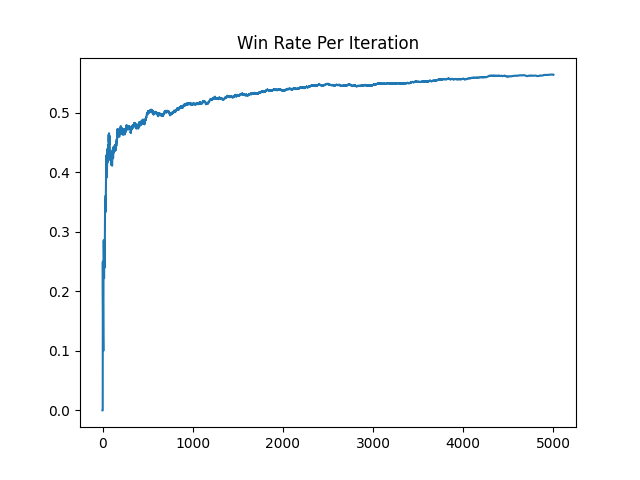
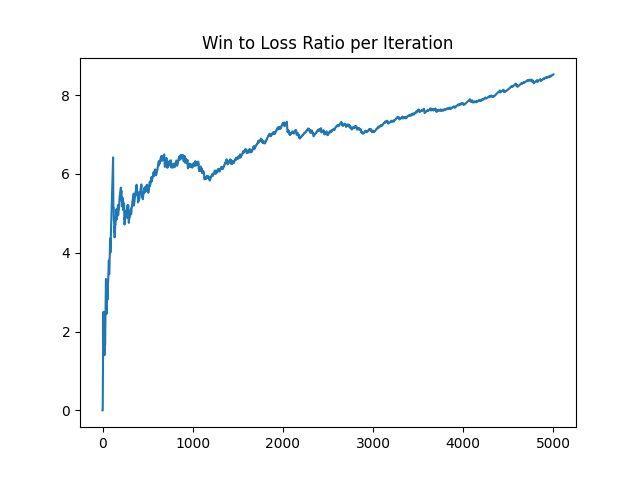
appearance changes

diff --git a/game.py b/game.py
@@ -220,10 +220,9 @@ class Model():
 
         return xtrain, np.array(ytrain_list)
     
-# this main is rather botched together but it's mostly PoC for me
 if __name__ == '__main__':
     # USER PARAMS
-    win_rate_stop = 0.8
+    win_ratio_stop = 0.8
     game_num_stop = 5000
     slow_mode = False
 
@@ -291,8 +290,8 @@ if __name__ == '__main__':
             output_lines[5] = 'LEARNER Wins:\t{}'.format(learner_won)
             output_lines[6] = 'LEARNER Losses:\t{}'.format(learner_lost)
             output_lines[7] = 'LEARNER Ties:\t{}'.format(learner_tied)
-            output_lines[8] = 'Win Rate:\t{:.2f}'.format(float(learner_won)/total_games)
-            output_lines[9] = 'Win/Loss Rate:\t{:.2f}'.format(float(learner_won)/(learner_lost+1))
+            output_lines[8] = 'Win/Total Ratio:\t{:.2f}'.format(float(learner_won)/total_games)
+            output_lines[9] = 'Win/Loss Ratio:\t{:.2f}'.format(float(learner_won)/(learner_lost+1))
             output_lines[10] = 'Program status: TRAINING'
 
 
@@ -301,14 +300,14 @@ if __name__ == '__main__':
             model.fit(xtrain, ytrain)
             
             # handle metrics
-            win_rate = float(learner_won)/total_games
-
-            history.append(win_rate)
+            win_loss_ratio = float(learner_won)/(learner_lost+1)
+            win_total_ratio = float(learner_won)/total_games
+            history.append(win_loss_ratio)
             
             # terminating condition (50 is there bc sometimes it gets lucky and quits early)
-            if win_rate > win_rate_stop and total_games > 50 or total_games > game_num_stop:
+            if win_total_ratio > win_ratio_stop and total_games > 50 or total_games > game_num_stop:
                 break
         
-        plt.title('Win Rate Per Iteration')
+        plt.title('Win to Loss Ratio per Iteration')
         plt.plot(history)
         plt.show()

diff --git a/README.md b/README.md
@@ -15,7 +15,7 @@ Just run the script and wait for it to finish training.
 Afterwards you will see a graph of the model's progress.
 
 There are a few user params you can set before running the script:
-- script will quit the training after the model achieves `win_rate_stop`
+- script will quit the training after the model achieves `win_ratio_stop`
 - use `game_num_stop` as a maximum number of games to train on
 - set `slow_mode` to `True` if you want to watch the process more closely
 
